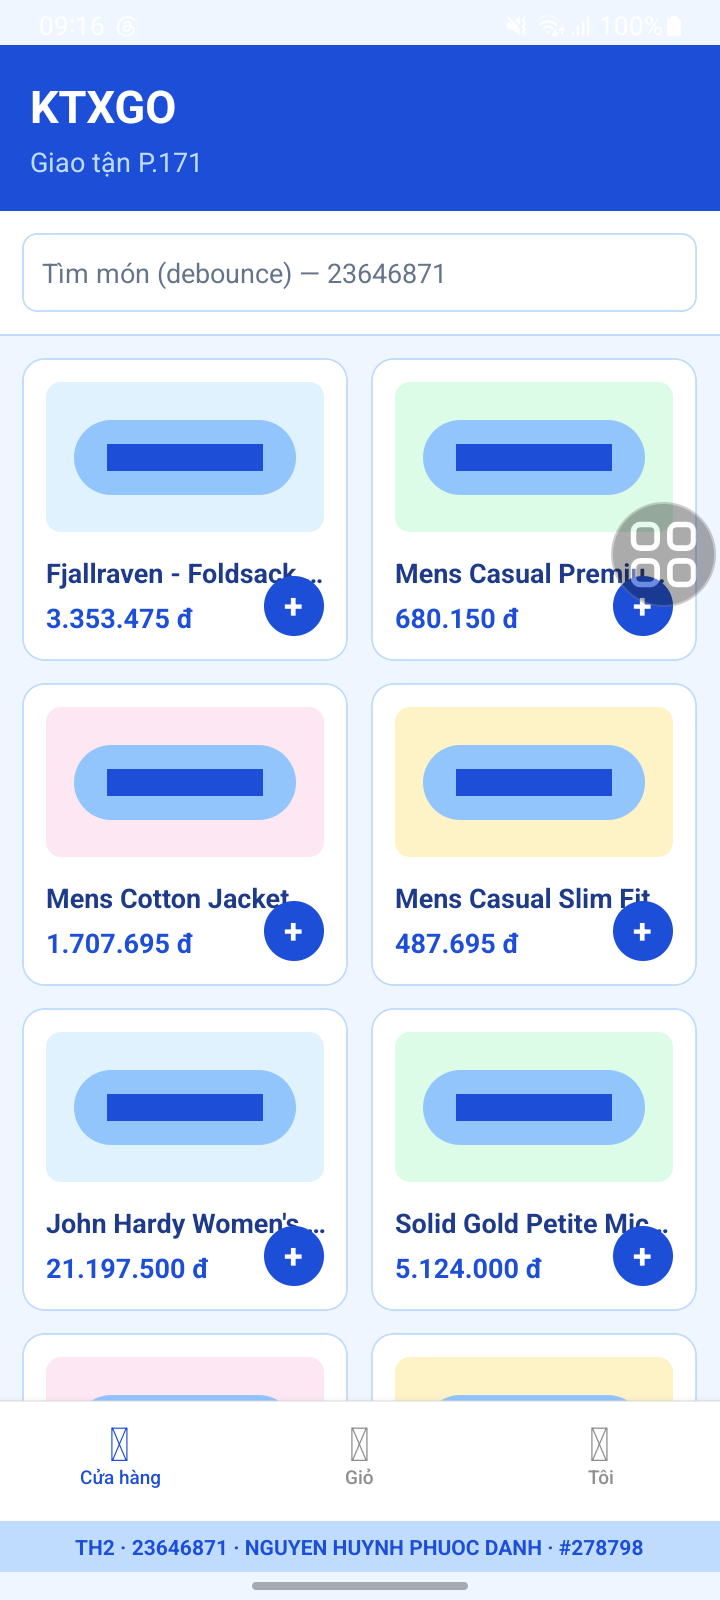
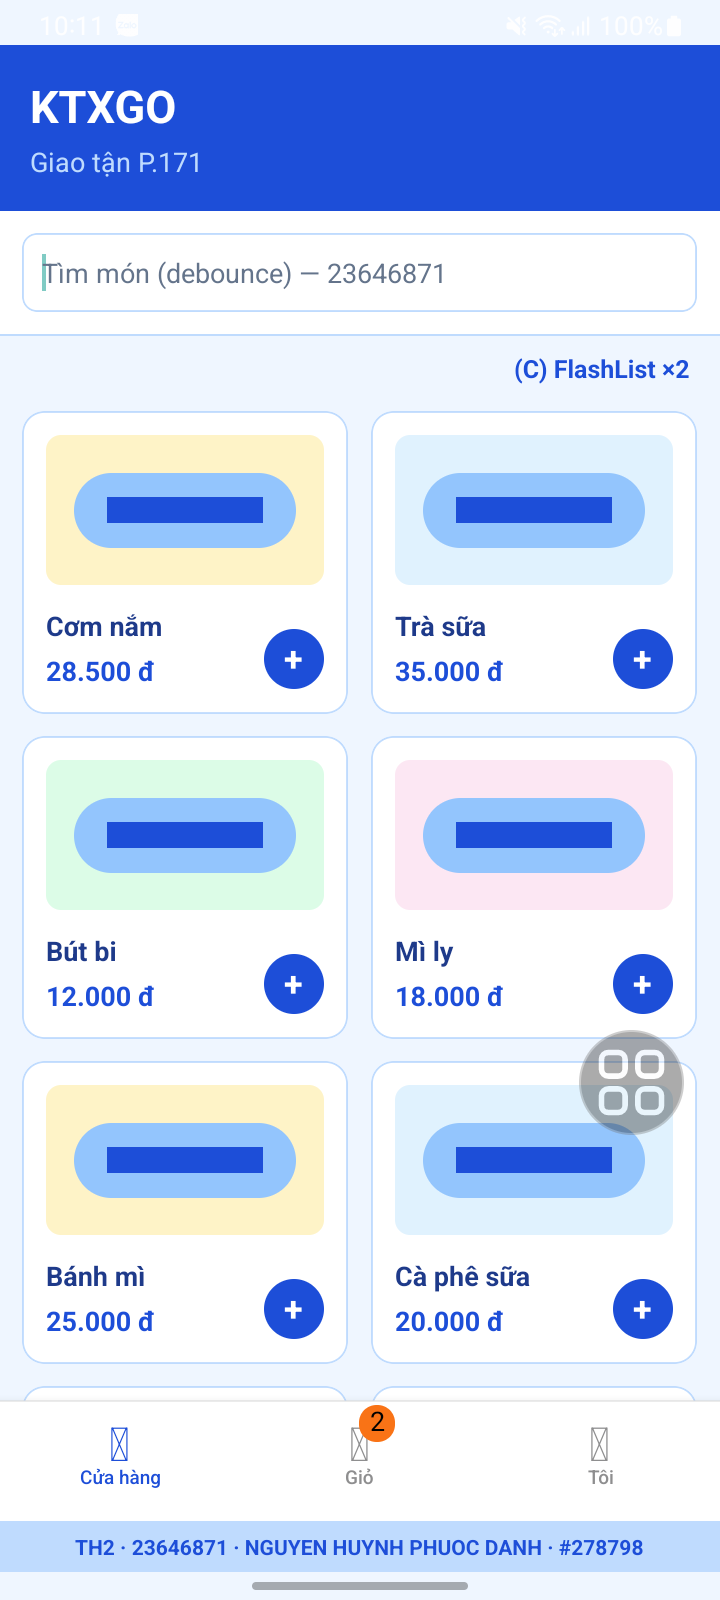
feat(23646871_TH2): hoan tat giao dien mon KTX don gian va bo doi screenshot nop bai

Changed region(s): [[0.4889, 0.2188, 1.0, 0.9062], [0.0306, 0.25, 0.4889, 0.875]]

diff --git a/src/screens/DetailScreen.tsx b/src/screens/DetailScreen.tsx
@@ -1,14 +1,15 @@
 import React from 'react';
-import { View, Text, StyleSheet, Image, TouchableOpacity, ActivityIndicator, Vibration } from 'react-native';
+import { View, Text, StyleSheet, TouchableOpacity, ActivityIndicator, Vibration } from 'react-native';
 import { useRoute, useNavigation } from '@react-navigation/native';
 import { useQuery } from '@tanstack/react-query';
 
-import { apiClient } from '@services/apiClient';
-import { Product } from '@services/productApi';
+import { Product, fetchProductById } from '@services/productApi';
 import { useCartStore } from '@stores/cartStore';
 import { formatCurrency } from '@components/ProductCard';
 import { COLORS } from '@constants/theme';
 import { VARIANT } from '@constants/student';
+
+const MOCK_BGS = ['#FEF3C7', '#E0F2FE', '#DCFCE7', '#FCE7F3'];
 
 export default function DetailScreen() {
   const route = useRoute<any>();
@@ -20,10 +21,7 @@ export default function DetailScreen() {
   // Fetch chi tiết 1 sản phẩm
   const { data: item, isLoading, isError } = useQuery<Product>({
     queryKey: ['product', id],
-    queryFn: async () => {
-      const res = await apiClient.get(`/products/${id}`);
-      return res.data;
-    },
+    queryFn: () => fetchProductById(id),
   });
 
   if (isLoading) {
@@ -52,14 +50,19 @@ export default function DetailScreen() {
     });
   };
 
+  const colorIndex = Math.abs((Number(item.id) - 1) % 4);
+  const bgColor = MOCK_BGS[colorIndex] || MOCK_BGS[0];
+
   return (
     <View style={styles.container}>
       <TouchableOpacity style={styles.backBtn} onPress={() => navigation.goBack()}>
         <Text style={styles.backText}>← Chi tiết món</Text>
       </TouchableOpacity>
 
-      <View style={styles.imageCard}>
-        <Image source={{ uri: item.image }} style={styles.image} resizeMode="contain" />
+      <View style={[styles.imageCard, { backgroundColor: bgColor }]}>
+        <View style={styles.oval}>
+          <View style={styles.rectangle} />
+        </View>
       </View>
 
       <Text style={styles.title}>{item.title}</Text>
@@ -86,12 +89,13 @@ const styles = StyleSheet.create({
   center: { flex: 1, justifyContent: 'center', alignItems: 'center' },
   backBtn: { marginBottom: 16, alignSelf: 'flex-start' },
   backText: { fontSize: 16, color: COLORS.primary, fontWeight: 'bold' },
-  imageCard: { backgroundColor: '#FFF9C4', borderRadius: 16, padding: 24, marginBottom: 16, alignItems: 'center' },
-  image: { width: 200, height: 150 },
+  imageCard: { height: 160, borderRadius: 16, padding: 24, marginBottom: 16, alignItems: 'center', justifyContent: 'center' },
+  oval: { width: 160, height: 60, backgroundColor: '#93C5FD', borderRadius: 60, justifyContent: 'center', alignItems: 'center' },
+  rectangle: { width: 110, height: 22, backgroundColor: COLORS.primary },
   title: { fontSize: 22, fontWeight: 'bold', color: COLORS.text, textAlign: 'center', marginBottom: 8 },
   price: { fontSize: 20, color: COLORS.primary, fontWeight: 'bold', textAlign: 'center', marginBottom: 8 },
   subtitle: { fontSize: 14, color: COLORS.textLight, textAlign: 'center', marginBottom: 16 },
-  desc: { fontSize: 14, color: COLORS.textLight, textAlign: 'center', marginBottom: 8 },
+  desc: { fontSize: 14, color: COLORS.textLight, textAlign: 'center', marginBottom: 8, paddingHorizontal: 12 },
   idText: { fontSize: 12, color: COLORS.textLight, textAlign: 'center', fontStyle: 'italic' },
   spacer: { flex: 1 },
   addButton: { backgroundColor: COLORS.primary, padding: 16, borderRadius: 12, alignItems: 'center', marginBottom: 16 },

diff --git a/src/services/productApi.ts b/src/services/productApi.ts
@@ -1,4 +1,5 @@
 import { apiClient } from './apiClient';
+import { PRICE_MULTIPLIER } from '@constants/student';
 
 export interface Product {
   id: number;
@@ -8,8 +9,43 @@ export interface Product {
   description: string;
 }
 
-// Yêu cầu lấy 12 sản phẩm
+export const KTX_ITEMS = [
+  { id: 1, title: 'Cơm nắm', price: 28500 / PRICE_MULTIPLIER, description: 'Cơm nắm tam giác rong biển nhân cá ngừ sốt mayo thơm ngon, tiện lợi cho sinh viên ký túc xá.' },
+  { id: 2, title: 'Trà sữa', price: 35000 / PRICE_MULTIPLIER, description: 'Trà sữa trân châu đường đen truyền thống ngọt thanh mát lạnh, giao tận phòng.' },
+  { id: 3, title: 'Bút bi', price: 12000 / PRICE_MULTIPLIER, description: 'Bút bi ngòi 0.5mm êm trơn nét đều chuẩn cho học tập, thi cử.' },
+  { id: 4, title: 'Mì ly', price: 18000 / PRICE_MULTIPLIER, description: 'Mì ly ăn liền nóng hổi hương vị tôm chua cay, cứu đói nhanh cho cú đêm.' },
+  { id: 5, title: 'Bánh mì', price: 25000 / PRICE_MULTIPLIER, description: 'Bánh mì kẹp chả lụa pate thơm lừng giòn rụm cho bữa sáng đủ chất.' },
+  { id: 6, title: 'Cà phê sữa', price: 20000 / PRICE_MULTIPLIER, description: 'Cà phê sữa đá đậm đà sảng khoái giúp tỉnh táo học bài.' },
+  { id: 7, title: 'Vở kẻ ngang', price: 15000 / PRICE_MULTIPLIER, description: 'Vở ô ly 96 trang giấy chống lóa chất lượng cao cho sinh viên.' },
+  { id: 8, title: 'Snack khoai tây', price: 16000 / PRICE_MULTIPLIER, description: 'Snack khoai tây chiên giòn tan hương vị phô mai hấp dẫn.' },
+  { id: 9, title: 'Nước suối', price: 10000 / PRICE_MULTIPLIER, description: 'Nước khoáng thiên nhiên đóng chai 500ml thanh khiết.' },
+  { id: 10, title: 'Xúc xích', price: 12000 / PRICE_MULTIPLIER, description: 'Xúc xích tiệt trùng ăn liền dinh dưỡng tiện lợi.' },
+  { id: 11, title: 'Sữa tươi', price: 14000 / PRICE_MULTIPLIER, description: 'Sữa tươi tiệt trùng có đường 180ml bổ sung canxi và năng lượng.' },
+  { id: 12, title: 'Bánh quy', price: 15000 / PRICE_MULTIPLIER, description: 'Bánh quy bơ xốp thơm ngậy ngọt ngào.' },
+];
+
+// Yêu cầu lấy 12 sản phẩm từ fakestoreapi và map tên món đơn giản theo đúng mockup
 export const fetchProducts = async (): Promise<Product[]> => {
   const res = await apiClient.get('/products?limit=12');
-  return res.data;
+  return res.data.map((item: any, index: number) => {
+    const ktx = KTX_ITEMS[index % KTX_ITEMS.length];
+    return {
+      ...item,
+      title: ktx.title,
+      price: ktx.price,
+      description: ktx.description,
+    };
+  });
+};
+
+export const fetchProductById = async (id: string | number): Promise<Product> => {
+  const res = await apiClient.get(`/products/${id}`);
+  const numId = Number(id) || 1;
+  const ktx = KTX_ITEMS[(numId - 1) % KTX_ITEMS.length] || KTX_ITEMS[0];
+  return {
+    ...res.data,
+    title: ktx.title,
+    price: ktx.price,
+    description: ktx.description,
+  };
 };

diff --git a/src/screens/CartScreen.tsx b/src/screens/CartScreen.tsx
@@ -3,10 +3,13 @@ import { View, Text, StyleSheet, TouchableOpacity, FlatList } from 'react-native
 import { useCartStore } from '@stores/cartStore';
 import { formatCurrency } from '@components/ProductCard';
 import { COLORS } from '@constants/theme';
-import { ROOM_LABEL } from '@constants/student';
+import { ROOM_LABEL, PRICE_MULTIPLIER } from '@constants/student';
 
 export default function CartScreen() {
   const { items, remove, changeQty, totalAmount, shipFee } = useCartStore();
+
+  const totalItemVnd = Math.round(totalAmount() * (PRICE_MULTIPLIER || 1));
+  const formatVndNumber = (val: number) => Math.round(val).toLocaleString('vi-VN') + ' đ';
 
   return (
     <View style={styles.container}>
@@ -49,11 +52,11 @@ export default function CartScreen() {
         <Text style={styles.roomText}>Giao đến {ROOM_LABEL}</Text>
 
         <Text style={styles.shipText}>
-          {shipFee > 0 ? `Phí ship: ${formatCurrency(shipFee)} (công thức B)` : 'Phí ship: (Đang chờ tính...)'}
+          {shipFee > 0 ? `Phí ship: ${formatVndNumber(shipFee)} (công thức B)` : 'Phí ship: (Đang chờ tính...)'}
         </Text>
 
         <View style={styles.divider} />
-        <Text style={styles.totalText}>Tổng hàng: {formatCurrency(totalAmount() + shipFee)}</Text>
+        <Text style={styles.totalText}>Tổng cộng: {formatVndNumber(totalItemVnd + shipFee)}</Text>
       </View>
     </View>
   );

diff --git a/src/components/ProductCard.tsx b/src/components/ProductCard.tsx
@@ -18,8 +18,9 @@ export const formatCurrency = (price: number) => {
 const MOCK_BGS = ['#FEF3C7', '#E0F2FE', '#DCFCE7', '#FCE7F3'];
 
 const ProductCard = ({ item, onPress, onAdd }: Props) => {
-  // Trích xuất màu nền luân phiên dựa vào ID sản phẩm
-  const bgColor = MOCK_BGS[item.id % 4];
+  // Trích xuất màu nền luân phiên dựa vào ID sản phẩm (khớp chính xác 4 màu theo mockup: Vàng, Xanh dương, Xanh lá, Hồng)
+  const colorIndex = Math.abs((Number(item.id) - 1) % 4);
+  const bgColor = MOCK_BGS[colorIndex] || MOCK_BGS[0];
 
   return (
     <TouchableOpacity style={styles.card} onPress={onPress}>

diff --git a/src/screens/HomeScreen.tsx b/src/screens/HomeScreen.tsx
@@ -97,6 +97,9 @@ export default function HomeScreen() {
 
       {/* Tuyệt đối không bọc FlashList bằng ScrollView dọc */}
       <View style={{ flex: 1 }}>
+        <View style={{ paddingHorizontal: 16, paddingTop: 8, paddingBottom: 2, alignItems: 'flex-end' }}>
+          <Text style={{ fontSize: 13, fontWeight: 'bold', color: COLORS.primary }}>(C) FlashList ×2</Text>
+        </View>
         <TypedFlashList
           data={filteredData}
           numColumns={2}
